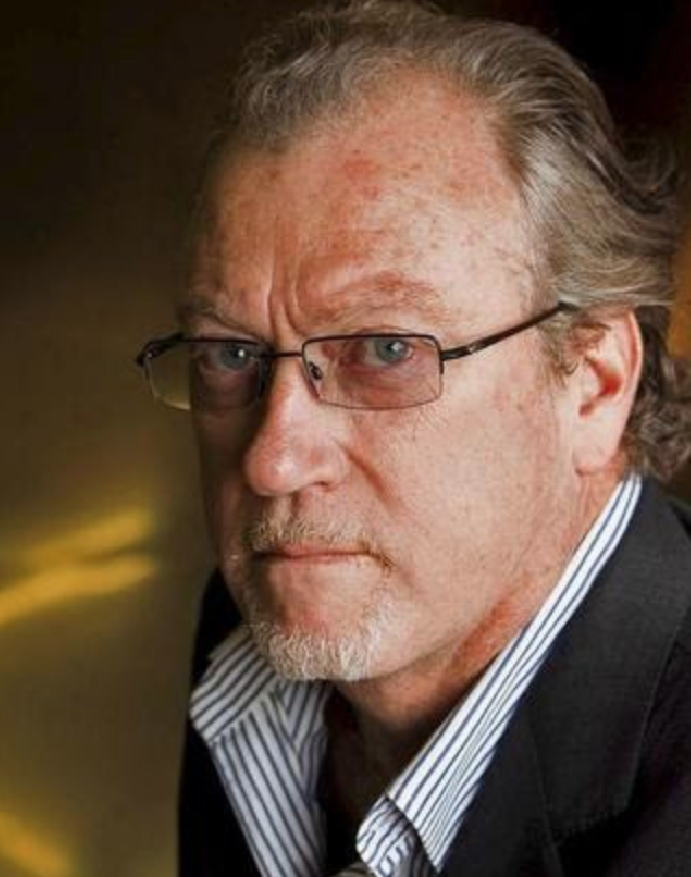
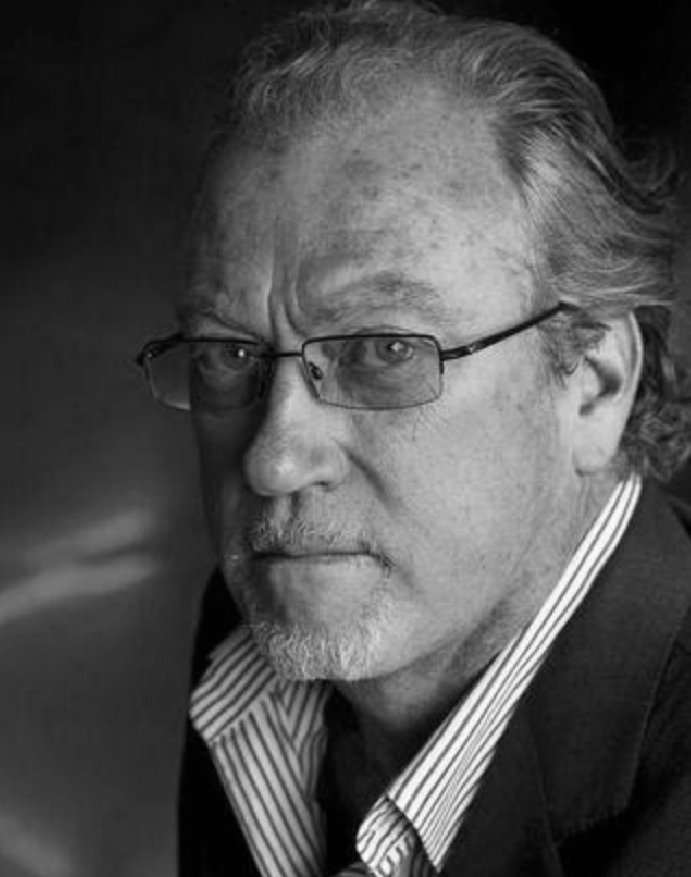
fotos byn

diff --git a/index.html b/index.html
@@ -112,7 +112,7 @@
                                  corresponsal de guerra. </div> <br><br>
 
                             <!-- LAYER NR. 3 -->
-                            <div class="tp-caption product-landing-pra " style="font-family: portada-bold;" id="slide-24-layer-17" data-x="['left','left','center','center']"
+                            <!-- <div class="tp-caption product-landing-pra " style="font-family: portada-bold;" id="slide-24-layer-17" data-x="['left','left','center','center']"
                                 data-hoffset="['30','30','0','0']" data-y="['middle','middle','middle','middle']"
                                 data-voffset="['54','30','-50','-70']" data-fontsize="['18','18','16','14']"
                                 data-lineheight="['33','33','30','26']" data-width="['450','400','400','360']"
@@ -120,7 +120,7 @@
                                 data-responsive="off" data-frames='[{"delay":1000,"speed":2000,"sfxcolor":"#b80025","sfx_effect":"blockfrombottom","frame":"0","from":"z:0;","to":"o:1;","ease":"Power4.easeInOut"},{"delay":"wait","speed":300,"frame":"999","to":"opacity:0;","ease":"Power3.easeInOut"}]'
                                 data-textAlign="['inherit','inherit','center','center']" data-paddingtop="[0,0,0,0]"
                                 data-paddingright="[0,0,0,0]" data-paddingbottom="[0,0,0,0]" data-paddingleft="[0,0,0,0]"
-                                style="z-index: 7; min-width: 450px; max-width: 450px; white-space: normal; font-size: 24px; line-height: 33px; font-weight: 300; color: #999999; letter-spacing: 0px;"><span style="font-size: 23px;">  <br> <strong></strong>  <a href="https://www.clarin.com/"></a></span></div>
+                                style="z-index: 7; min-width: 450px; max-width: 450px; white-space: normal; font-size: 24px; line-height: 33px; font-weight: 300; color: #999999; letter-spacing: 0px;"><span style="font-size: 23px;">  <br> <strong></strong>  <a href="https://www.clarin.com/"></a></span></div> -->
 
                             <!-- LAYER NR. 4 -->
                            <a href="https://www.youtube.com/watch?v=nl5XXa-yYIA" target="_blank"> <div  class="tp-caption rev-btn primary-font" id="slide-24-layer-2" data-x="['left','left','center','center']"
@@ -240,7 +240,7 @@
                             <!-- Start Single Carousel -->
                             <div class="carousle-slider text-center">
                                 <div class="thumb">
-                                    <a href="https://www.youtube.com/watch?v=nl5XXa-yYIA" target="_blank"><img src="/imagenes/4500x4500-markus.jpg" alt="Carousel Image"></a>
+                                    <a href="https://www.youtube.com/watch?v=nl5XXa-yYIA" target="_blank"><img src="/imagenes/jon-lee-770x500 (1).JPG" alt="Carousel Image"></a>
                                 </div>
                                 <div class="content">
                                     <div class="spacing"></div>
